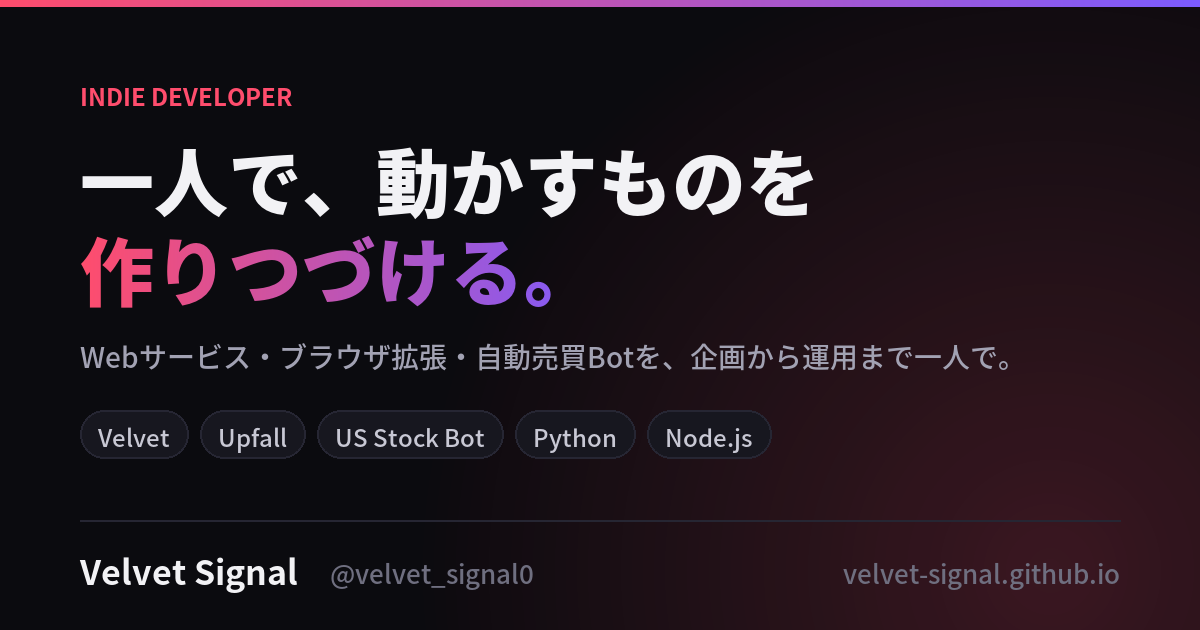
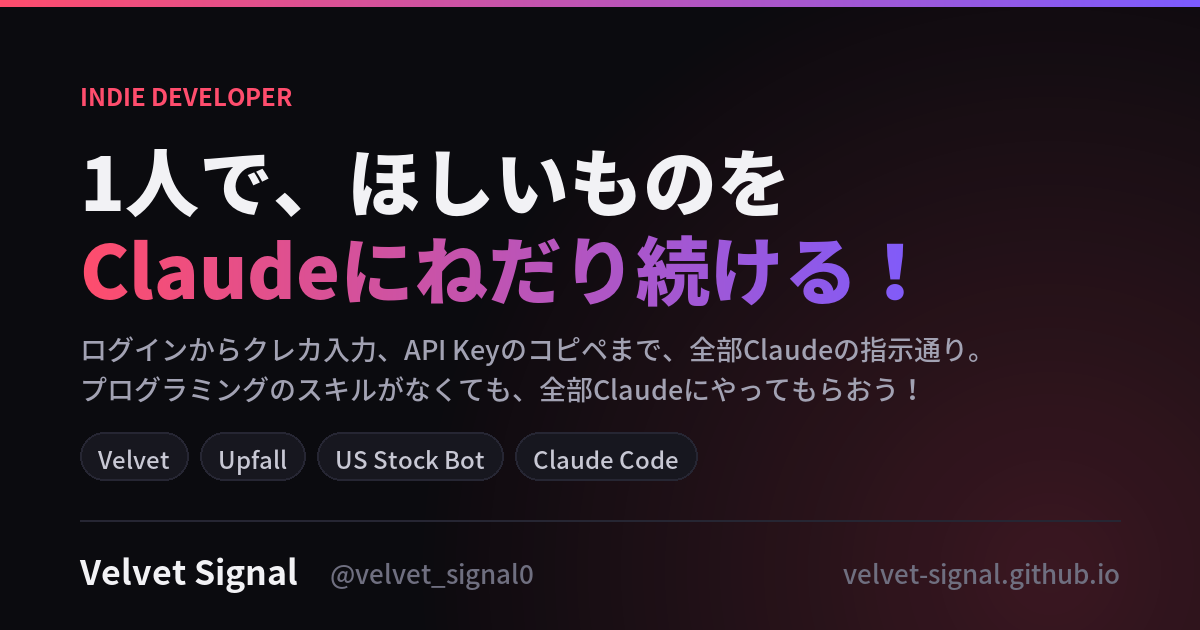
Rewrite intro: build everything by asking Claude

Changed region(s): [[0.0617, 0.2111, 0.7092, 0.4825], [0.0617, 0.5127, 0.8325, 0.7841], [0.74, 0.3921, 0.7708, 0.4825]]

diff --git a/index.html b/index.html
@@ -5,9 +5,9 @@
 <meta name="viewport" content="width=device-width, initial-scale=1">
 <!-- ===== ここだけ書き換えればOK ===== -->
 <title>Velvet Signal | 個人開発</title>
-<meta name="description" content="動画・AI・自動売買まわりのWebサービスを一人で作っている個人開発者のページ。">
+<meta name="description" content="プログラミングのスキルなしで、Claudeにねだり続けてWebサービス・拡張機能・自動売買Botを作っている個人開発者のページ。">
 <meta property="og:title" content="Velvet Signal | 個人開発">
-<meta property="og:description" content="動画・AI・自動売買まわりのWebサービスを一人で作っている個人開発者のページ。">
+<meta property="og:description" content="プログラミングのスキルなしで、Claudeにねだり続けてWebサービス・拡張機能・自動売買Botを作っている個人開発者のページ。">
 <meta property="og:type" content="website">
 <meta name="twitter:card" content="summary_large_image">
 
@@ -91,8 +91,8 @@ footer{padding:40px 0 60px;color:var(--fg3);font-size:.85rem;border-top:1px soli
 
 <section class="hero">
   <div class="eyebrow">Indie developer</div>
-  <h1>一人で、動かすものを<br><span>作りつづける。</span></h1>
-  <p>Webサービス・ブラウザ拡張・自動売買Botまで、企画からデザイン、実装、運用まで全部ひとりでやっている個人開発者です。作ったものはすぐ公開して、数字を見ながら育てています。</p>
+  <h1>1人で、ほしいものを<br><span>Claudeにねだり続ける！</span></h1>
+  <p>ログインからクレカ入力、API Keyのコピーアンドペーストまで、全部Claudeの指示通りにやった個人開発者です。プログラミングのスキルがなくても全部Claudeにやってもらおう！</p>
   <div class="links">
     <!-- ↓ Xのユーザー名に書き換え -->
     <a class="btn primary" href="https://x.com/velvet_signal0" target="_blank" rel="noopener">
